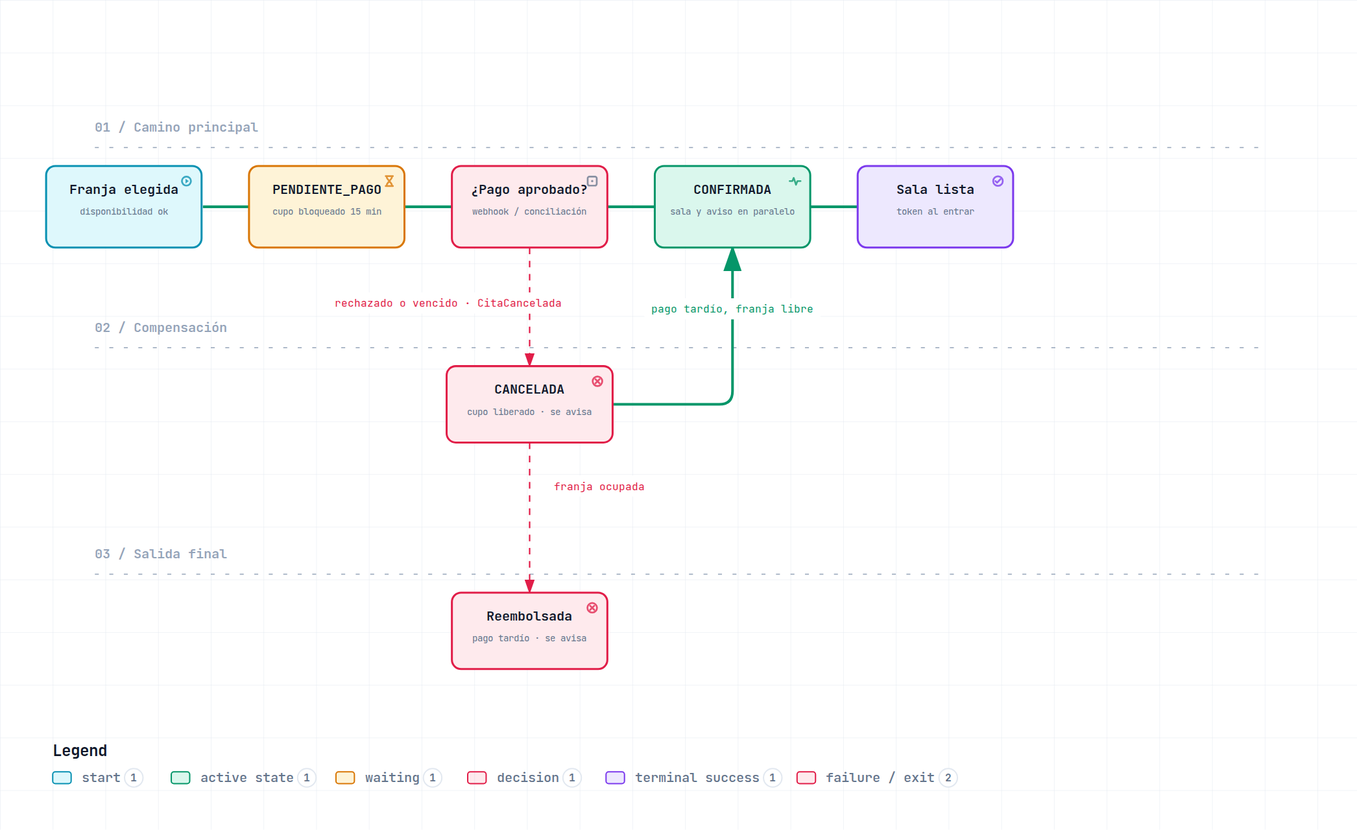
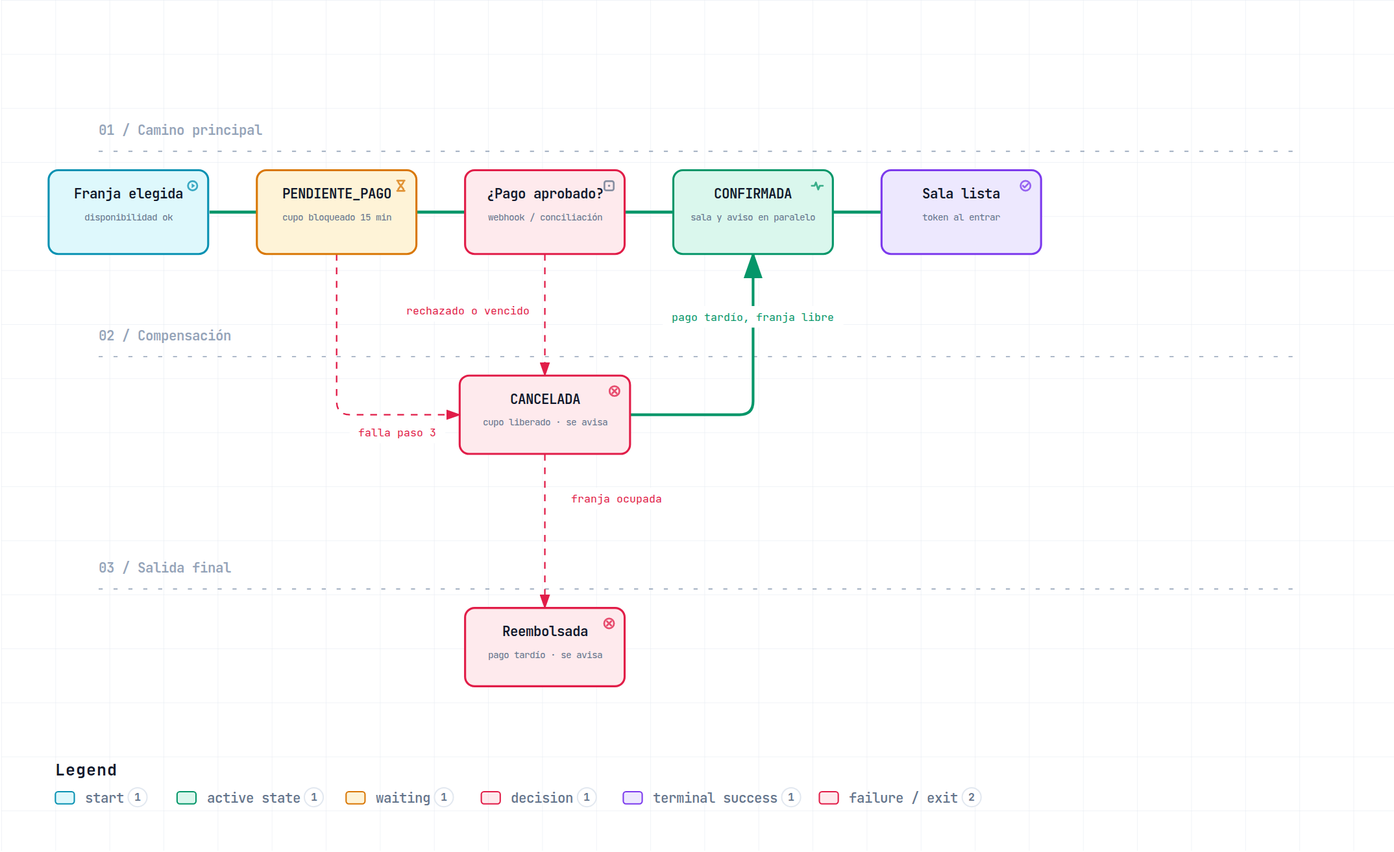
docs(flujo): aplica retroalimentación al flujo de agendar cita y diagramas

diff --git a/docs/diagramas/secuencia-agendar-cita.html b/docs/diagramas/secuencia-agendar-cita.html
@@ -5130,7 +5130,7 @@ OTHER DEALINGS IN THE FONT SOFTWARE.
     <!-- Main Diagram -->
     <div class="diagram-container" data-detail-level="read"
          data-preset-badge-editorial-plate="ARCHIFY / PLATE 04">
-      <svg viewBox="0 0 1080 660" role="img" lang="en" aria-labelledby="archify-diagram-title archify-diagram-description" data-preset="classic" data-quality-profile="showcase">
+      <svg viewBox="0 0 1080 620" role="img" lang="en" aria-labelledby="archify-diagram-title archify-diagram-description" data-preset="classic" data-quality-profile="showcase">
         <title id="archify-diagram-title">Agendar cita virtual · Secuencia</title>
         <desc id="archify-diagram-description">A sequence diagram generated by Archify.</desc>
         <!-- Definitions -->
@@ -5156,142 +5156,128 @@ OTHER DEALINGS IN THE FONT SOFTWARE.
         <rect width="100%" height="100%" fill="url(#grid)" />
 
         <!-- Time Segments -->
-        <rect data-graph-role="structural-frame" data-composition-frame-kind="segment" data-composition-frame-id="0" x="48" y="150" width="984" height="100" rx="10" class="c-lane" stroke-width="1"/>
+        <rect data-graph-role="structural-frame" data-composition-frame-kind="segment" data-composition-frame-id="0" x="48" y="150" width="984" height="150" rx="10" class="c-lane" stroke-width="1"/>
 
-        <rect data-graph-role="structural-frame" data-composition-frame-kind="segment" data-composition-frame-id="1" x="48" y="262" width="984" height="244" rx="10" class="c-lane" stroke-width="1"/>
-
-        <rect data-graph-role="structural-frame" data-composition-frame-kind="segment" data-composition-frame-id="2" x="48" y="518" width="984" height="62" rx="10" class="c-lane" stroke-width="1"/>
+        <rect data-graph-role="structural-frame" data-composition-frame-kind="segment" data-composition-frame-id="1" x="48" y="330" width="984" height="202" rx="10" class="c-lane" stroke-width="1"/>
 
         <!-- Lifelines -->
-        <path d="M 129.5 142 L 129.5 595" class="a-default" stroke-width="0.8" stroke-dasharray="3,7"/>
-        <path d="M 298.1 142 L 298.1 595" class="a-default" stroke-width="0.8" stroke-dasharray="3,7"/>
-        <path d="M 466.7 142 L 466.7 595" class="a-default" stroke-width="0.8" stroke-dasharray="3,7"/>
-        <path d="M 635.3 142 L 635.3 595" class="a-default" stroke-width="0.8" stroke-dasharray="3,7"/>
-        <path d="M 803.9 142 L 803.9 595" class="a-default" stroke-width="0.8" stroke-dasharray="3,7"/>
-        <path d="M 972.5 142 L 972.5 595" class="a-default" stroke-width="0.8" stroke-dasharray="3,7"/>
+        <path d="M 129.5 142 L 129.5 555" class="a-default" stroke-width="0.8" stroke-dasharray="3,7"/>
+        <path d="M 298.1 142 L 298.1 555" class="a-default" stroke-width="0.8" stroke-dasharray="3,7"/>
+        <path d="M 466.7 142 L 466.7 555" class="a-default" stroke-width="0.8" stroke-dasharray="3,7"/>
+        <path d="M 635.3 142 L 635.3 555" class="a-default" stroke-width="0.8" stroke-dasharray="3,7"/>
+        <path d="M 803.9 142 L 803.9 555" class="a-default" stroke-width="0.8" stroke-dasharray="3,7"/>
+        <path d="M 972.5 142 L 972.5 555" class="a-default" stroke-width="0.8" stroke-dasharray="3,7"/>
 
         <!-- Activations -->
-        <rect x="293.1" y="170" width="10" height="74" rx="3" class="c-mask"/>
-        <rect x="293.1" y="170" width="10" height="74" rx="3" class="c-backend" stroke-width="1"/>
-        <rect x="461.7" y="200" width="10" height="14" rx="3" class="c-mask"/>
-        <rect x="461.7" y="200" width="10" height="14" rx="3" class="c-external" stroke-width="1"/>
-        <rect x="461.7" y="276" width="10" height="44" rx="3" class="c-mask"/>
-        <rect x="461.7" y="276" width="10" height="44" rx="3" class="c-external" stroke-width="1"/>
-        <rect x="293.1" y="306" width="10" height="44" rx="3" class="c-mask"/>
-        <rect x="293.1" y="306" width="10" height="44" rx="3" class="c-backend" stroke-width="1"/>
-        <rect x="630.3" y="336" width="10" height="164" rx="3" class="c-mask"/>
-        <rect x="630.3" y="336" width="10" height="164" rx="3" class="c-messagebus" stroke-width="1"/>
-        <rect x="798.9" y="366" width="10" height="104" rx="3" class="c-mask"/>
-        <rect x="798.9" y="366" width="10" height="104" rx="3" class="c-backend" stroke-width="1"/>
-        <rect x="967.5" y="396" width="10" height="44" rx="3" class="c-mask"/>
-        <rect x="967.5" y="396" width="10" height="44" rx="3" class="c-backend" stroke-width="1"/>
-        <rect x="293.1" y="530" width="10" height="44" rx="3" class="c-mask"/>
-        <rect x="293.1" y="530" width="10" height="44" rx="3" class="c-backend" stroke-width="1"/>
-        <rect x="798.9" y="560" width="10" height="14" rx="3" class="c-mask"/>
-        <rect x="798.9" y="560" width="10" height="14" rx="3" class="c-backend" stroke-width="1"/>
+        <rect x="293.1" y="170" width="10" height="124" rx="3" class="c-mask"/>
+        <rect x="293.1" y="170" width="10" height="124" rx="3" class="c-backend" stroke-width="1"/>
+        <rect x="461.7" y="226" width="10" height="40" rx="3" class="c-mask"/>
+        <rect x="461.7" y="226" width="10" height="40" rx="3" class="c-external" stroke-width="1"/>
+        <rect x="461.7" y="346" width="10" height="40" rx="3" class="c-mask"/>
+        <rect x="461.7" y="346" width="10" height="40" rx="3" class="c-external" stroke-width="1"/>
+        <rect x="293.1" y="374" width="10" height="40" rx="3" class="c-mask"/>
+        <rect x="293.1" y="374" width="10" height="40" rx="3" class="c-backend" stroke-width="1"/>
+        <rect x="630.3" y="402" width="10" height="124" rx="3" class="c-mask"/>
+        <rect x="630.3" y="402" width="10" height="124" rx="3" class="c-messagebus" stroke-width="1"/>
+        <rect x="798.9" y="430" width="10" height="68" rx="3" class="c-mask"/>
+        <rect x="798.9" y="430" width="10" height="68" rx="3" class="c-backend" stroke-width="1"/>
+        <rect x="967.5" y="458" width="10" height="16" rx="3" class="c-mask"/>
+        <rect x="967.5" y="458" width="10" height="16" rx="3" class="c-backend" stroke-width="1"/>
 
         <!-- Messages -->
-        <g data-edge-from="paciente" data-edge-to="nucleo" data-edge-label="1–2 · elige y reserva franja" data-edge-key="0">
+        <g data-edge-from="paciente" data-edge-to="nucleo" data-edge-label="1 · Verificar disponibilidad" data-edge-key="0">
           <path data-composition-edge-from="paciente" data-composition-edge-to="nucleo" data-composition-points="136.5,176;291.1,176" d="M 136.5 176 L 291.1 176" class="a-emphasis" stroke-width="1.8" marker-end="url(#arrowhead-emphasis)"/>
         <g data-detail="context">
           <rect x="135" y="156" width="157.6" height="16" rx="3" class="c-mask"/>
-          <text x="213.8" y="166" class="t-backend" font-size="9" text-anchor="middle">1–2 · elige y reserva franja</text>
+          <text x="213.8" y="166" class="t-backend" font-size="9" text-anchor="middle">1 · Verificar disponibilidad</text>
         </g>
         </g>
 
-        <g data-edge-from="nucleo" data-edge-to="pasarela" data-edge-label="3 · crea transacción" data-edge-key="1">
-          <path data-composition-edge-from="nucleo" data-composition-edge-to="pasarela" data-composition-points="305.1,206;459.7,206" d="M 305.1 206 L 459.7 206" class="a-default" stroke-width="1.4" marker-end="url(#arrowhead)"/>
+        <g data-edge-from="paciente" data-edge-to="nucleo" data-edge-label="2 · Reservar cupo (15 min)" data-edge-key="1">
+          <path data-composition-edge-from="paciente" data-composition-edge-to="nucleo" data-composition-points="136.5,204;291.1,204" d="M 136.5 204 L 291.1 204" class="a-emphasis" stroke-width="1.8" marker-end="url(#arrowhead-emphasis)"/>
         <g data-detail="context">
-          <rect x="324.4" y="186" width="116" height="16" rx="3" class="c-mask"/>
-          <text x="382.4" y="196" class="t-backend" font-size="9" text-anchor="middle">3 · crea transacción</text>
+          <rect x="140.2" y="184" width="147.20000000000002" height="16" rx="3" class="c-mask"/>
+          <text x="213.8" y="194" class="t-backend" font-size="9" text-anchor="middle">2 · Reservar cupo (15 min)</text>
         </g>
         </g>
 
-        <g data-edge-from="nucleo" data-edge-to="paciente" data-edge-label="PENDIENTE_PAGO + enlace de pago" data-edge-key="2">
-          <path data-composition-edge-from="nucleo" data-composition-edge-to="paciente" data-composition-points="291.1,236;136.5,236" d="M 291.1 236 L 136.5 236" class="a-default" stroke-width="1.4" stroke-dasharray="3,5" marker-end="url(#arrowhead)"/>
+        <g data-edge-from="nucleo" data-edge-to="pasarela" data-edge-label="3 · Iniciar pago (monto + ref. opaca)" data-edge-key="2">
+          <path data-composition-edge-from="nucleo" data-composition-edge-to="pasarela" data-composition-points="305.1,232;459.7,232" d="M 305.1 232 L 459.7 232" class="a-default" stroke-width="1.4" marker-end="url(#arrowhead)"/>
         <g data-detail="context">
-          <rect x="127.2" y="216" width="173.20000000000002" height="16" rx="3" class="c-mask"/>
-          <text x="213.8" y="226" class="t-muted" font-size="9" text-anchor="middle">PENDIENTE_PAGO + enlace de pago</text>
+          <rect x="280.2" y="212" width="204.4" height="16" rx="3" class="c-mask"/>
+          <text x="382.4" y="222" class="t-backend" font-size="9" text-anchor="middle">3 · Iniciar pago (monto + ref. opaca)</text>
         </g>
         </g>
 
-        <g data-edge-from="paciente" data-edge-to="pasarela" data-edge-label="paga el copago" data-edge-key="3">
-          <path data-composition-edge-from="paciente" data-composition-edge-to="pasarela" data-composition-points="136.5,282;459.7,282" d="M 136.5 282 L 459.7 282" class="a-default" stroke-width="1.4" marker-end="url(#arrowhead)"/>
+        <g data-edge-from="pasarela" data-edge-to="nucleo" data-edge-label="enlace de pago" data-edge-key="3">
+          <path data-composition-edge-from="pasarela" data-composition-edge-to="nucleo" data-composition-points="459.7,260;305.1,260" d="M 459.7 260 L 305.1 260" class="a-default" stroke-width="1.4" stroke-dasharray="3,5" marker-end="url(#arrowhead)"/>
         <g data-detail="context">
-          <rect x="255.70000000000002" y="262" width="84.8" height="16" rx="3" class="c-mask"/>
-          <text x="298.1" y="272" class="t-backend" font-size="9" text-anchor="middle">paga el copago</text>
+          <rect x="340" y="240" width="84.8" height="16" rx="3" class="c-mask"/>
+          <text x="382.4" y="250" class="t-muted" font-size="9" text-anchor="middle">enlace de pago</text>
         </g>
         </g>
 
-        <g data-edge-from="pasarela" data-edge-to="nucleo" data-edge-label="4 · webhook aprobado" data-edge-key="4">
-          <path data-composition-edge-from="pasarela" data-composition-edge-to="nucleo" data-composition-points="459.7,312;305.1,312" d="M 459.7 312 L 305.1 312" class="a-dashed" stroke-width="1.4" marker-end="url(#arrowhead-dashed)"/>
+        <g data-edge-from="nucleo" data-edge-to="paciente" data-edge-label="PENDIENTE_PAGO + enlace de pago" data-edge-key="4">
+          <path data-composition-edge-from="nucleo" data-composition-edge-to="paciente" data-composition-points="291.1,288;136.5,288" d="M 291.1 288 L 136.5 288" class="a-default" stroke-width="1.4" stroke-dasharray="3,5" marker-end="url(#arrowhead)"/>
         <g data-detail="context">
-          <rect x="324.4" y="292" width="116" height="16" rx="3" class="c-mask"/>
-          <text x="382.4" y="302" class="t-messagebus" font-size="9" text-anchor="middle">4 · webhook aprobado</text>
+          <rect x="127.2" y="268" width="173.20000000000002" height="16" rx="3" class="c-mask"/>
+          <text x="213.8" y="278" class="t-muted" font-size="9" text-anchor="middle">PENDIENTE_PAGO + enlace de pago</text>
         </g>
         </g>
 
-        <g data-edge-from="nucleo" data-edge-to="broker" data-edge-label="CitaConfirmada" data-edge-key="5">
-          <path data-composition-edge-from="nucleo" data-composition-edge-to="broker" data-composition-points="305.1,342;628.3,342" d="M 305.1 342 L 628.3 342" class="a-dashed" stroke-width="1.4" marker-end="url(#arrowhead-dashed)"/>
+        <g data-edge-from="paciente" data-edge-to="pasarela" data-edge-label="paga el copago" data-edge-key="5">
+          <path data-composition-edge-from="paciente" data-composition-edge-to="pasarela" data-composition-points="136.5,352;459.7,352" d="M 136.5 352 L 459.7 352" class="a-default" stroke-width="1.4" marker-end="url(#arrowhead)"/>
         <g data-detail="context">
-          <rect x="424.3" y="322" width="84.8" height="16" rx="3" class="c-mask"/>
-          <text x="466.7" y="332" class="t-messagebus" font-size="9" text-anchor="middle">CitaConfirmada</text>
+          <rect x="255.70000000000002" y="332" width="84.8" height="16" rx="3" class="c-mask"/>
+          <text x="298.1" y="342" class="t-backend" font-size="9" text-anchor="middle">paga el copago</text>
         </g>
         </g>
 
-        <g data-edge-from="broker" data-edge-to="workerVideo" data-edge-label="5 · crea sala sin token" data-edge-key="6">
-          <path data-composition-edge-from="broker" data-composition-edge-to="workerVideo" data-composition-points="642.3,372;796.9,372" d="M 642.3 372 L 796.9 372" class="a-dashed" stroke-width="1.4" marker-end="url(#arrowhead-dashed)"/>
+        <g data-edge-from="pasarela" data-edge-to="nucleo" data-edge-label="4 · Confirmar pago (webhook)" data-edge-key="6">
+          <path data-composition-edge-from="pasarela" data-composition-edge-to="nucleo" data-composition-points="459.7,380;305.1,380" d="M 459.7 380 L 305.1 380" class="a-dashed" stroke-width="1.4" marker-end="url(#arrowhead-dashed)"/>
         <g data-detail="context">
-          <rect x="653.8" y="352" width="131.60000000000002" height="16" rx="3" class="c-mask"/>
-          <text x="719.5999999999999" y="362" class="t-messagebus" font-size="9" text-anchor="middle">5 · crea sala sin token</text>
+          <rect x="303.59999999999997" y="360" width="157.6" height="16" rx="3" class="c-mask"/>
+          <text x="382.4" y="370" class="t-messagebus" font-size="9" text-anchor="middle">4 · Confirmar pago (webhook)</text>
         </g>
         </g>
 
-        <g data-edge-from="broker" data-edge-to="workerMsg" data-edge-label="6 · aviso en paralelo" data-edge-key="7">
-          <path data-composition-edge-from="broker" data-composition-edge-to="workerMsg" data-composition-points="642.3,402;965.5,402" d="M 642.3 402 L 965.5 402" class="a-dashed" stroke-width="1.4" marker-end="url(#arrowhead-dashed)"/>
+        <g data-edge-from="nucleo" data-edge-to="broker" data-edge-label="CitaConfirmada" data-edge-key="7">
+          <path data-composition-edge-from="nucleo" data-composition-edge-to="broker" data-composition-points="305.1,408;628.3,408" d="M 305.1 408 L 628.3 408" class="a-dashed" stroke-width="1.4" marker-end="url(#arrowhead-dashed)"/>
         <g data-detail="context">
-          <rect x="743.3" y="382" width="121.2" height="16" rx="3" class="c-mask"/>
-          <text x="803.9" y="392" class="t-messagebus" font-size="9" text-anchor="middle">6 · aviso en paralelo</text>
+          <rect x="424.3" y="388" width="84.8" height="16" rx="3" class="c-mask"/>
+          <text x="466.7" y="398" class="t-messagebus" font-size="9" text-anchor="middle">CitaConfirmada</text>
         </g>
         </g>
 
-        <g data-edge-from="workerMsg" data-edge-to="paciente" data-edge-label="enlace al portal" data-edge-key="8">
-          <path data-composition-edge-from="workerMsg" data-composition-edge-to="paciente" data-composition-points="965.5,432;136.5,432" d="M 965.5 432 L 136.5 432" class="a-dashed" stroke-width="1.4" marker-end="url(#arrowhead-dashed)"/>
+        <g data-edge-from="broker" data-edge-to="workerVideo" data-edge-label="5 · Crear sala (sin token)" data-edge-key="8">
+          <path data-composition-edge-from="broker" data-composition-edge-to="workerVideo" data-composition-points="642.3,436;796.9,436" d="M 642.3 436 L 796.9 436" class="a-dashed" stroke-width="1.4" marker-end="url(#arrowhead-dashed)"/>
         <g data-detail="context">
-          <rect x="503.4" y="412" width="95.2" height="16" rx="3" class="c-mask"/>
-          <text x="551" y="422" class="t-messagebus" font-size="9" text-anchor="middle">enlace al portal</text>
+          <rect x="645.9999999999999" y="416" width="147.20000000000002" height="16" rx="3" class="c-mask"/>
+          <text x="719.5999999999999" y="426" class="t-messagebus" font-size="9" text-anchor="middle">5 · Crear sala (sin token)</text>
         </g>
         </g>
 
-        <g data-edge-from="workerVideo" data-edge-to="broker" data-edge-label="SalaCreada" data-edge-key="9">
-          <path data-composition-edge-from="workerVideo" data-composition-edge-to="broker" data-composition-points="796.9,462;642.3,462" d="M 796.9 462 L 642.3 462" class="a-dashed" stroke-width="1.4" marker-end="url(#arrowhead-dashed)"/>
+        <g data-edge-from="broker" data-edge-to="workerMsg" data-edge-label="6 · Enviar aviso (enlace al portal)" data-edge-key="9">
+          <path data-composition-edge-from="broker" data-composition-edge-to="workerMsg" data-composition-points="642.3,464;965.5,464" d="M 642.3 464 L 965.5 464" class="a-dashed" stroke-width="1.4" marker-end="url(#arrowhead-dashed)"/>
         <g data-detail="context">
-          <rect x="687.5999999999999" y="442" width="64" height="16" rx="3" class="c-mask"/>
-          <text x="719.5999999999999" y="452" class="t-messagebus" font-size="9" text-anchor="middle">SalaCreada</text>
+          <rect x="706.9" y="444" width="194" height="16" rx="3" class="c-mask"/>
+          <text x="803.9" y="454" class="t-messagebus" font-size="9" text-anchor="middle">6 · Enviar aviso (enlace al portal)</text>
         </g>
         </g>
 
-        <g data-edge-from="broker" data-edge-to="nucleo" data-edge-label="SalaCreada → portal" data-edge-key="10">
-          <path data-composition-edge-from="broker" data-composition-edge-to="nucleo" data-composition-points="628.3,492;305.1,492" d="M 628.3 492 L 305.1 492" class="a-dashed" stroke-width="1.4" marker-end="url(#arrowhead-dashed)"/>
+        <g data-edge-from="workerVideo" data-edge-to="broker" data-edge-label="SalaCreada" data-edge-key="10">
+          <path data-composition-edge-from="workerVideo" data-composition-edge-to="broker" data-composition-points="796.9,492;642.3,492" d="M 796.9 492 L 642.3 492" class="a-dashed" stroke-width="1.4" marker-end="url(#arrowhead-dashed)"/>
         <g data-detail="context">
-          <rect x="411.3" y="472" width="110.8" height="16" rx="3" class="c-mask"/>
-          <text x="466.7" y="482" class="t-messagebus" font-size="9" text-anchor="middle">SalaCreada → portal</text>
+          <rect x="687.5999999999999" y="472" width="64" height="16" rx="3" class="c-mask"/>
+          <text x="719.5999999999999" y="482" class="t-messagebus" font-size="9" text-anchor="middle">SalaCreada</text>
         </g>
         </g>
 
-        <g data-edge-from="paciente" data-edge-to="nucleo" data-edge-label="entra desde el portal" data-edge-key="11">
-          <path data-composition-edge-from="paciente" data-composition-edge-to="nucleo" data-composition-points="136.5,536;291.1,536" d="M 136.5 536 L 291.1 536" class="a-emphasis" stroke-width="1.8" marker-end="url(#arrowhead-emphasis)"/>
+        <g data-edge-from="broker" data-edge-to="nucleo" data-edge-label="SalaCreada → portal" data-edge-key="11">
+          <path data-composition-edge-from="broker" data-composition-edge-to="nucleo" data-composition-points="628.3,520;305.1,520" d="M 628.3 520 L 305.1 520" class="a-dashed" stroke-width="1.4" marker-end="url(#arrowhead-dashed)"/>
         <g data-detail="context">
-          <rect x="153.20000000000002" y="516" width="121.2" height="16" rx="3" class="c-mask"/>
-          <text x="213.8" y="526" class="t-backend" font-size="9" text-anchor="middle">entra desde el portal</text>
-        </g>
-        </g>
-
-        <g data-edge-from="nucleo" data-edge-to="workerVideo" data-edge-label="pide token de vigencia corta" data-edge-key="12">
-          <path data-composition-edge-from="nucleo" data-composition-edge-to="workerVideo" data-composition-points="305.1,566;796.9,566" d="M 305.1 566 L 796.9 566" class="a-default" stroke-width="1.4" marker-end="url(#arrowhead)"/>
-        <g data-detail="context">
-          <rect x="472.2" y="546" width="157.6" height="16" rx="3" class="c-mask"/>
-          <text x="551" y="556" class="t-backend" font-size="9" text-anchor="middle">pide token de vigencia corta</text>
+          <rect x="411.3" y="500" width="110.8" height="16" rx="3" class="c-mask"/>
+          <text x="466.7" y="510" class="t-messagebus" font-size="9" text-anchor="middle">SalaCreada → portal</text>
         </g>
         </g>
 
@@ -5301,12 +5287,8 @@ OTHER DEALINGS IN THE FONT SOFTWARE.
           <text x="62" y="141" class="t-dim" font-size="9" font-weight="600">Síncrono · el paciente espera</text>
         </g>
         <g data-graph-role="segment-label" data-segment-id="1">
-          <rect x="56" y="240" width="149.20000000000002" height="18" rx="3" class="c-mask"/>
-          <text x="62" y="253" class="t-dim" font-size="9" font-weight="600">Por evento · llega después</text>
-        </g>
-        <g data-graph-role="segment-label" data-segment-id="2">
-          <rect x="56" y="496" width="133.60000000000002" height="18" rx="3" class="c-mask"/>
-          <text x="62" y="509" class="t-dim" font-size="9" font-weight="600">Al entrar a la consulta</text>
+          <rect x="56" y="308" width="149.20000000000002" height="18" rx="3" class="c-mask"/>
+          <text x="62" y="321" class="t-dim" font-size="9" font-weight="600">Por evento · llega después</text>
         </g>
 
         <!-- Participants -->
@@ -5383,22 +5365,22 @@ OTHER DEALINGS IN THE FONT SOFTWARE.
 
         <!-- Legend -->
         <g data-legend="">
-          <text x="40" y="586" class="t-primary" font-size="12" font-weight="650">Legend</text>
-          <g data-legend-semantic-kind="emphasis" data-legend-x="40" data-legend-baseline="606" data-legend-width="78">
-            <path d="M 40 603 L 74 603" class="a-emphasis" stroke-width="1.8" marker-end="url(#arrowhead-emphasis)"/>
-            <text x="83" y="606" class="t-muted" font-size="10" font-weight="500">request</text>
+          <text x="40" y="546" class="t-primary" font-size="12" font-weight="650">Legend</text>
+          <g data-legend-semantic-kind="emphasis" data-legend-x="40" data-legend-baseline="566" data-legend-width="78">
+            <path d="M 40 563 L 74 563" class="a-emphasis" stroke-width="1.8" marker-end="url(#arrowhead-emphasis)"/>
+            <text x="83" y="566" class="t-muted" font-size="10" font-weight="500">request</text>
           </g>
-          <g data-legend-semantic-kind="return" data-legend-x="140" data-legend-baseline="606" data-legend-width="73">
-            <path d="M 140 603 L 174 603" class="a-default" stroke-width="1.4" stroke-dasharray="3,5" marker-end="url(#arrowhead)"/>
-            <text x="183" y="606" class="t-muted" font-size="10" font-weight="500">return</text>
+          <g data-legend-semantic-kind="return" data-legend-x="140" data-legend-baseline="566" data-legend-width="73">
+            <path d="M 140 563 L 174 563" class="a-default" stroke-width="1.4" stroke-dasharray="3,5" marker-end="url(#arrowhead)"/>
+            <text x="183" y="566" class="t-muted" font-size="10" font-weight="500">return</text>
           </g>
-          <g data-legend-semantic-kind="dashed" data-legend-x="235" data-legend-baseline="606" data-legend-width="98">
-            <path d="M 235 603 L 269 603" class="a-dashed" stroke-width="1.4" marker-end="url(#arrowhead-dashed)"/>
-            <text x="278" y="606" class="t-muted" font-size="10" font-weight="500">async trace</text>
+          <g data-legend-semantic-kind="dashed" data-legend-x="235" data-legend-baseline="566" data-legend-width="98">
+            <path d="M 235 563 L 269 563" class="a-dashed" stroke-width="1.4" marker-end="url(#arrowhead-dashed)"/>
+            <text x="278" y="566" class="t-muted" font-size="10" font-weight="500">async trace</text>
           </g>
-          <g data-legend-semantic-kind="default" data-legend-x="355" data-legend-baseline="606" data-legend-width="118">
-            <path d="M 355 603 L 389 603" class="a-default" stroke-width="1.4" marker-end="url(#arrowhead)"/>
-            <text x="398" y="606" class="t-muted" font-size="10" font-weight="500">default message</text>
+          <g data-legend-semantic-kind="default" data-legend-x="355" data-legend-baseline="566" data-legend-width="118">
+            <path d="M 355 563 L 389 563" class="a-default" stroke-width="1.4" marker-end="url(#arrowhead)"/>
+            <text x="398" y="566" class="t-muted" font-size="10" font-weight="500">default message</text>
           </g>
         </g>
       </svg>

diff --git a/docs/diagramas/estados-cita.html b/docs/diagramas/estados-cita.html
@@ -5167,9 +5167,10 @@ OTHER DEALINGS IN THE FONT SOFTWARE.
         <path d="M 154 157 L 748 157" class="a-emphasis" stroke-width="2.2" marker-end="url(#arrowhead-emphasis)"/>
 
         <!-- Transition paths -->
-        <path data-edge-from="pago" data-edge-to="cancelada" data-edge-label="rechazado o vencido · CitaCancelada" data-edge-key="0" data-edge-id="rechazo" data-composition-points="402,188;402,278" d="M 402 188 L 402 278" class="a-security" stroke-width="1.1" marker-end="url(#arrowhead-security)"/>
-        <path data-edge-from="cancelada" data-edge-to="confirmada" data-edge-label="pago tardío, franja libre" data-edge-key="1" data-edge-id="reasigna" data-composition-points="465,307;556,307;556,188" d="M 465 307 L 546 307 Q 556 307 556 297 L 556 188" class="a-emphasis" stroke-width="2" marker-end="url(#arrowhead-emphasis)"/>
-        <path data-edge-from="cancelada" data-edge-to="reembolsada" data-edge-label="franja ocupada" data-edge-key="2" data-edge-id="reembolso" data-composition-points="402,336;402,450" d="M 402 336 L 402 450" class="a-security" stroke-width="1.1" marker-end="url(#arrowhead-security)"/>
+        <path data-edge-from="pendiente" data-edge-to="cancelada" data-edge-label="falla paso 3" data-edge-key="0" data-edge-id="falla-inicio" data-composition-points="248,188;248,307;339,307" d="M 248 188 L 248 297 Q 248 307 258 307 L 339 307" class="a-security" stroke-width="1.1" marker-end="url(#arrowhead-security)"/>
+        <path data-edge-from="pago" data-edge-to="cancelada" data-edge-label="rechazado o vencido" data-edge-key="1" data-edge-id="rechazo" data-composition-points="402,188;402,278" d="M 402 188 L 402 278" class="a-security" stroke-width="1.1" marker-end="url(#arrowhead-security)"/>
+        <path data-edge-from="cancelada" data-edge-to="confirmada" data-edge-label="pago tardío, franja libre" data-edge-key="2" data-edge-id="reasigna" data-composition-points="465,307;556,307;556,188" d="M 465 307 L 546 307 Q 556 307 556 297 L 556 188" class="a-emphasis" stroke-width="2" marker-end="url(#arrowhead-emphasis)"/>
+        <path data-edge-from="cancelada" data-edge-to="reembolsada" data-edge-label="franja ocupada" data-edge-key="3" data-edge-id="reembolso" data-composition-points="402,336;402,450" d="M 402 336 L 402 450" class="a-security" stroke-width="1.1" marker-end="url(#arrowhead-security)"/>
 
         <!-- States -->
         <g id="node-elegida" data-node-id="elegida" data-node-label="Franja elegida" tabindex="0" role="button" aria-label="Focus Franja elegida, disponibilidad ok, Camino principal" aria-pressed="false" data-node-kind="start" data-node-sublabel="disponibilidad ok" data-node-tag="síncrono" data-node-context="Camino principal">
@@ -5267,15 +5268,19 @@ OTHER DEALINGS IN THE FONT SOFTWARE.
         </g>
 
         <!-- Transition labels -->
-        <g data-detail="context" data-edge-from="pago" data-edge-to="cancelada" data-edge-label="rechazado o vencido · CitaCancelada" data-edge-key="0" data-edge-id="rechazo">
-          <rect x="248.25" y="222" width="183.5" height="16" rx="4" class="c-mask"/>
-          <text x="340" y="233" class="t-security" font-size="8" text-anchor="middle">rechazado o vencido · CitaCancelada</text>
+        <g data-detail="context" data-edge-from="pendiente" data-edge-to="cancelada" data-edge-label="falla paso 3" data-edge-key="0" data-edge-id="falla-inicio">
+          <rect x="257.6" y="312" width="70.80000000000001" height="16" rx="4" class="c-mask"/>
+          <text x="293" y="323" class="t-security" font-size="8" text-anchor="middle">falla paso 3</text>
         </g>
-        <g data-detail="context" data-edge-from="cancelada" data-edge-to="confirmada" data-edge-label="pago tardío, franja libre" data-edge-key="1" data-edge-id="reasigna">
+        <g data-detail="context" data-edge-from="pago" data-edge-to="cancelada" data-edge-label="rechazado o vencido" data-edge-key="1" data-edge-id="rechazo">
+          <rect x="292.45" y="222" width="105.10000000000001" height="16" rx="4" class="c-mask"/>
+          <text x="345" y="233" class="t-security" font-size="8" text-anchor="middle">rechazado o vencido</text>
+        </g>
+        <g data-detail="context" data-edge-from="cancelada" data-edge-to="confirmada" data-edge-label="pago tardío, franja libre" data-edge-key="2" data-edge-id="reasigna">
           <rect x="488.75" y="226.5" width="134.5" height="16" rx="4" class="c-mask"/>
           <text x="556" y="237.5" class="t-backend" font-size="8" text-anchor="middle">pago tardío, franja libre</text>
         </g>
-        <g data-detail="context" data-edge-from="cancelada" data-edge-to="reembolsada" data-edge-label="franja ocupada" data-edge-key="2" data-edge-id="reembolso">
+        <g data-detail="context" data-edge-from="cancelada" data-edge-to="reembolsada" data-edge-label="franja ocupada" data-edge-key="3" data-edge-id="reembolso">
           <rect x="414.7" y="361" width="80.60000000000001" height="16" rx="4" class="c-mask"/>
           <text x="455" y="372" class="t-security" font-size="8" text-anchor="middle">franja ocupada</text>
         </g>
@@ -5511,8 +5516,8 @@ OTHER DEALINGS IN THE FONT SOFTWARE.
           <h3>Compensación</h3>
         </div>
         <ul>
-          <li>&bull; Rechazo o bloqueo vencido: CitaCancelada, cupo liberado y aviso al paciente</li>
-          <li>&bull; Pago tardío: se reasigna si la franja sigue libre; si no, se reembolsa y se avisa</li>
+          <li>&bull; Falla del paso 3: cupo liberado, el error se ve en pantalla</li>
+          <li>&bull; Rechazo o vencimiento: CitaCancelada y aviso; pago tardío: reasignar o reembolsar</li>
         </ul>
       </div>
     </div>

diff --git a/docs/flujo-agendar-cita-virtual.md b/docs/flujo-agendar-cita-virtual.md
@@ -2,7 +2,7 @@
 
 Actividad «Del flujo al patrón» · Caso 4, Citas médicas y telemedicina · Grupo 4
 
-**Supuesto A-02.** El copago de la cita virtual se paga en línea al agendar. Por eso entra la pasarela de pagos como octavo actor.
+**Supuesto A-02.** El copago de la cita virtual se paga en línea al agendar. Por eso entra la pasarela de pagos como octavo actor. La pasarela solo recibe el monto y una referencia opaca de la cita, sin especialidad, motivo ni datos clínicos.
 
 ## Paso 1. El flujo
 
@@ -10,7 +10,7 @@ Actividad «Del flujo al patrón» · Caso 4, Citas médicas y telemedicina · G
 |---|---|---|
 | 1 | **Verificar disponibilidad** del profesional en la franja elegida | Módulo de agenda (núcleo) |
 | 2 | **Reservar el cupo** con un bloqueo de 15 minutos; la cita queda en `PENDIENTE_PAGO` | Módulo de agenda (núcleo) |
-| 3 | **Iniciar el pago:** crear la transacción y devolverle al paciente el enlace de pago | Núcleo → pasarela de pagos |
+| 3 | **Iniciar el pago:** crear la transacción con el monto y la referencia opaca de la cita, y devolverle al paciente el enlace de pago | Núcleo (llama a la pasarela de pagos) |
 | 4 | **Confirmar el pago:** la pasarela avisa por webhook; la cita pasa a `CONFIRMADA` y el núcleo publica `CitaConfirmada`, o pasa a `CANCELADA` y publica `CitaCancelada` | Pasarela de pagos → núcleo |
 | 5 | **Crear la sala de video**, sin token. Al terminar publica `SalaCreada` | Adaptador de video (worker) |
 | 6 | **Enviar el aviso** al paciente con fecha, hora, sede y el enlace al **portal**, sin datos clínicos | Adaptador de mensajería (worker) |
@@ -27,7 +27,7 @@ La pregunta del laboratorio: ¿el paciente necesita que este paso haya terminado
 |---|---|---|---|---|---|
 | 1 | Verificar disponibilidad | Agenda | Síncrono | Nada que deshacer. Se le ofrece otra franja. | Es solo lectura, no pasa nada. |
 | 2 | Reservar cupo (bloqueo 15 min) | Agenda | Síncrono | Nada que deshacer: no alcanzó a cambiar nada. | Idempotente por **id de solicitud** que manda el cliente. Además, restricción única (profesional, franja) en la base de datos. |
-| 3 | Iniciar pago | Pasarela | Síncrono, timeout de 5 s | **Compensa:** liberar el cupo. | Idempotente por **id de cita**, que va como referencia a la pasarela: no se crean dos transacciones. |
+| 3 | Iniciar pago (monto + referencia opaca) | Núcleo | Síncrono, timeout de 5 s | **Compensa:** si la pasarela no responde o devuelve error, la cita pasa a `CANCELADA` y se libera el cupo. El paciente ve el error en pantalla porque está esperando la respuesta, así que no se le envía aviso. | Idempotente por **id de cita**, que va como referencia a la pasarela: no se crean dos transacciones. |
 | 4 | Confirmar pago | Pasarela → núcleo | Evento (webhook) | **Compensa:** si el pago se rechaza o el bloqueo vence, la cita pasa a `CANCELADA`, se publica `CitaCancelada`, se libera el cupo y se le avisa al paciente que la cita no quedó agendada. Si el webhook no llega, se consulta el estado a la pasarela antes de liberar. Si el pago llega aprobado cuando el cupo ya se liberó, se reasigna si la franja sigue libre; si no, se reembolsa y se le avisa al paciente. | Idempotente por **id de transacción**. Las pasarelas reenvían el webhook hasta recibir 200. |
 | 5 | Crear sala (sin token) | Adaptador de video | Evento (`CitaConfirmada`) | La cita no se deshace. Reintentos con espera creciente, luego cola de mensajes muertos y alerta al administrativo. El aviso del paso 6 sale igual; el portal muestra «sala en preparación» hasta recibir `SalaCreada`. | Idempotente por **id de cita**: una cita, una sala. |
 | 6 | Enviar aviso con enlace al portal | Adaptador de mensajería | Evento (`CitaConfirmada`), en paralelo con el 5 | **Sin compensación posible:** un mensaje enviado no se recoge. Reintentos y cola de mensajes muertos; la cita se ve igual en el portal. | Idempotente por **id de cita + tipo de mensaje**, con registro de envíos guardado en la base de datos. |
@@ -37,7 +37,7 @@ La pregunta del laboratorio: ¿el paciente necesita que este paso haya terminado
 | Evento | Lo publica | Lo consumen |
 |---|---|---|
 | `CitaConfirmada` | Núcleo, al recibir el webhook de pago aprobado | Adaptador de video (paso 5), adaptador de mensajería (paso 6), auditoría |
-| `CitaCancelada` | Núcleo, cuando el pago se rechaza o el bloqueo vence | Adaptador de mensajería (aviso de cita no agendada), auditoría |
+| `CitaCancelada` | Núcleo, cuando falla el inicio del pago, el pago se rechaza o el bloqueo vence. Lleva el motivo | Auditoría; adaptador de mensajería (aviso de cita no agendada, salvo cuando el motivo es la falla del paso 3) |
 | `SalaCreada` | Adaptador de video, al crear la sala | Núcleo, para mostrar la sala en el portal |
 
 **Auditoría.** El metadato del agendamiento (quién agendó, cuándo, en qué estado quedó la cita) llega a la auditoría por evento. El acceso a la historia clínica sigue auditándose de forma síncrona, pero no participa en este flujo.
@@ -50,7 +50,7 @@ La pregunta del laboratorio: ¿el paciente necesita que este paso haya terminado
 
 ![Estados de la cita y su compensación](diagramas/estados-cita.png)
 
-*Figura 2. Estados de la cita. Una tarea programada dentro del núcleo revisa los bloqueos vencidos. Versión interactiva: [`diagramas/estados-cita.html`](diagramas/estados-cita.html).*
+*Figura 2. Estados de la cita, incluida la falla del paso 3. Una tarea programada dentro del núcleo revisa los bloqueos vencidos. Versión interactiva: [`diagramas/estados-cita.html`](diagramas/estados-cita.html).*
 
 ## Por qué así
 
